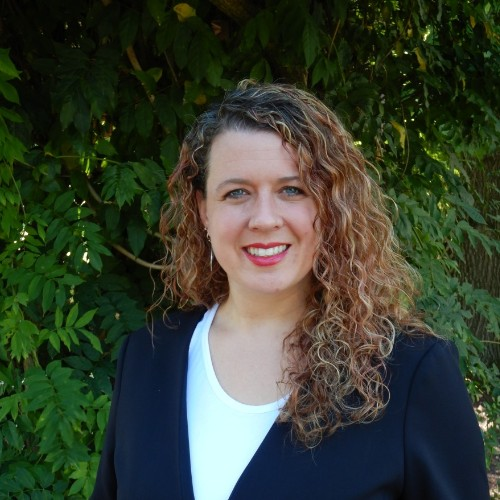
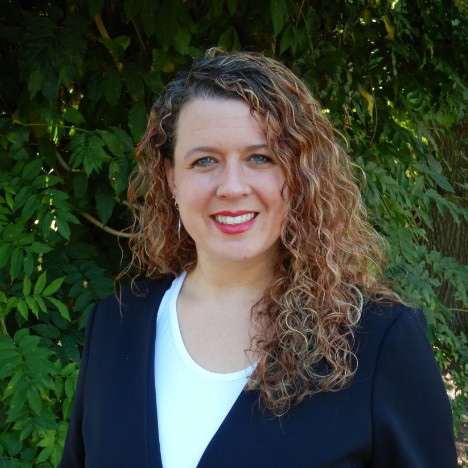
2nd commit

diff --git a/index.html b/index.html
@@ -13,10 +13,8 @@
     <script src="https://use.fontawesome.com/releases/v5.13.0/js/all.js" crossorigin="anonymous"></script>
     <!-- Google fonts-->
     <link href="https://fonts.googleapis.com/css2?family=Marcellus&display=swap" rel="stylesheet">
-    <!-- <link href="https://fonts.googleapis.com/css2?family=Nunito:wght@300&display=swap" rel="stylesheet">
-    <link href="https://fonts.googleapis.com/css?family=Merriweather+Sans:400,700" rel="stylesheet" />
-    <link href="https://fonts.googleapis.com/css?family=Merriweather:400,300,300italic,400italic,700,700italic"
-        rel="stylesheet" type="text/css" /> -->
+    <link href="https://fonts.googleapis.com/css2?family=Nunito:wght@300&display=swap" rel="stylesheet"> 
+
     <!-- Third party plugin CSS-->
     <link href="https://cdnjs.cloudflare.com/ajax/libs/magnific-popup.js/1.1.0/magnific-popup.min.css"
         rel="stylesheet" />
@@ -577,29 +575,27 @@
             <div class="col-lg-8 text-center">
                 <h2 class="text-primary mt-0">“FinaCatalysts started with a simple dream: 
                     Be the catalyst between people and great ideas.”</h2>
-                <hr class="divider light my-4"/>
+                <!-- <hr class="divider light my-4"/> -->
                 <div id="about-me-container">
-                <img src="img/MyPhoto2-small.jpg" class="rounded-circle float-left about-me-item" alt="photo of Kelli Valverde">
-                <p class="text-muted mb-4 about-me-item">I am a full-stack developer with over 10 years of experience in
-                    graphic design, product development, prototyping, package layout, quality assurance and
-                    licensing. Creative problem-solver who works well collaboratively or independently to handle
-                    tasks from start to finish. Looking to become a front-end UX/UI developer, focusing on
-                    accessibility and user-centered design.</p>
+                <img src="img/sara.jpeg" id="sara-photo" class="rounded-circle about-me-item" alt="photo of Sara Marks">
+                <p class="text-primary mt-0 font-weight-bold">Sara Marks – Founder</p>
+                <p class="text-muted mb-4 about-me-item">FinaCatalysts em ipsum dolor sit amet, consectetur adipiscing elit, sed do eiusmod tempor incididunt ut labore et dolore magna aliqua. Ut enim ad minim veniam, quis nostrud exercitation ullamco laboris nisi ut aliquip ex ea commodo consequat. Duis aute irure dolor in reprehenderit in voluptate velit esse cillum dolore eu fugiat nulla pariatur. Excepteur sint occaecat cupidatat non proident, sunt in culpa qui officia deserunt mollit anim id est laborum.</p>
+                <img src="img/logo/FinaCatalyst-logo-02.png" id="feather" alt="image of blue feather">
                 </div>
-                <a class="btn btn-light btn-xl js-scroll-trigger" href="#services">See my Skills</a>
+                <!-- <a class="btn btn-light btn-xl js-scroll-trigger" href="#services">See my Skills</a> -->
             </div>
         </div>
     </div>
 </section>
     
     <!-- Contact-->
-    <section class="page-section bg-primary mt-5" id="contact">
+    <section class="page-section bg-contact" id="contact">
         <div class="container">
             <div class="row justify-content-center">
                 <div class="col-lg-8 text-center">
-                    <h2 class="text-white mt-0">Let's Get In Touch!</h2>
+                    <h2 class="text-primary mt-0">Get in touch with us</h2>
                     <hr class="divider light my-4" />
-                    <p class="text-white-50 mb-4">Connect with me via email or on LinkedIn. For more of my code, check
+                    <p class="text-primary mb-4">Connect with me via email or on LinkedIn. For more of my code, check
                         out my
                         GitHub. Design protfolio available through my LinkedIn profile. </p>
                 </div>

diff --git a/css/styles.css b/css/styles.css
@@ -43,7 +43,7 @@
   --breakpoint-lg: 992px;
   --breakpoint-xl: 1200px;
   --font-family-serif: "Marcellus", serif;
-  --font-family-sans-serif: "Nunito", -apple-system, BlinkMacSystemFont, "Segoe UI", Roboto, "Helvetica Neue", Arial, "Noto Sans", sans-serif, "Apple Color Emoji", "Segoe UI Emoji", "Segoe UI Symbol", "Noto Color Emoji";
+  --font-family-sans-serif: "Nunito", sans-serif;
   --font-family-monospace: SFMono-Regular, Menlo, Monaco, Consolas, "Liberation Mono", "Courier New", monospace;
 }
 
@@ -67,7 +67,7 @@ article, aside, figcaption, figure, footer, header, hgroup, main, nav, section {
 body {
   margin: 0;
   font-family: var(--font-family-sans-serif);
-  font-size: 1rem;
+  font-size: 1.15rem;
   font-weight: 400;
   line-height: 1.5;
   color: var(--fc-secondary);
@@ -109,14 +109,19 @@ abbr[data-original-title] {
           text-decoration-skip-ink: none;
 }
 
-#about img {
-margin-right: 5%;
-height: 312px;
+#sara-photo {
+margin: 5%;
+width: 25vw;
+opacity: 80%;
 }
 
-#about p {
-  padding-top: 2rem ;
+#feather {
+  width: 15vw;
 }
+
+/* #about p {
+  padding-top: 2rem ;
+} */
 
 address {
   margin-bottom: 1rem;
@@ -6144,6 +6149,16 @@ a.close.disabled {
   background-color:  var(--fc-accent) !important;
 }
 
+.bg-contact {
+  background: url("../img/unsplash/jess-bailey-q10VITrVYUM-unsplash-40.jpg");
+  background-position: center;
+  background-repeat: no-repeat;
+  background-attachment: scroll;
+  background-size: cover;
+}
+
+
+
 a.bg-primary:hover, a.bg-primary:focus,
 button.bg-primary:hover,
 button.bg-primary:focus {
@@ -6201,7 +6216,7 @@ button.bg-danger:focus {
 }
 
 .bg-light {
-  background:linear-gradient(white, var(--fc-accent-10)) !important;
+  background:linear-gradient(white 50%, var(--fc-accent-10) 100%) !important;
 }
 
 a.bg-light:hover, a.bg-light:focus,
